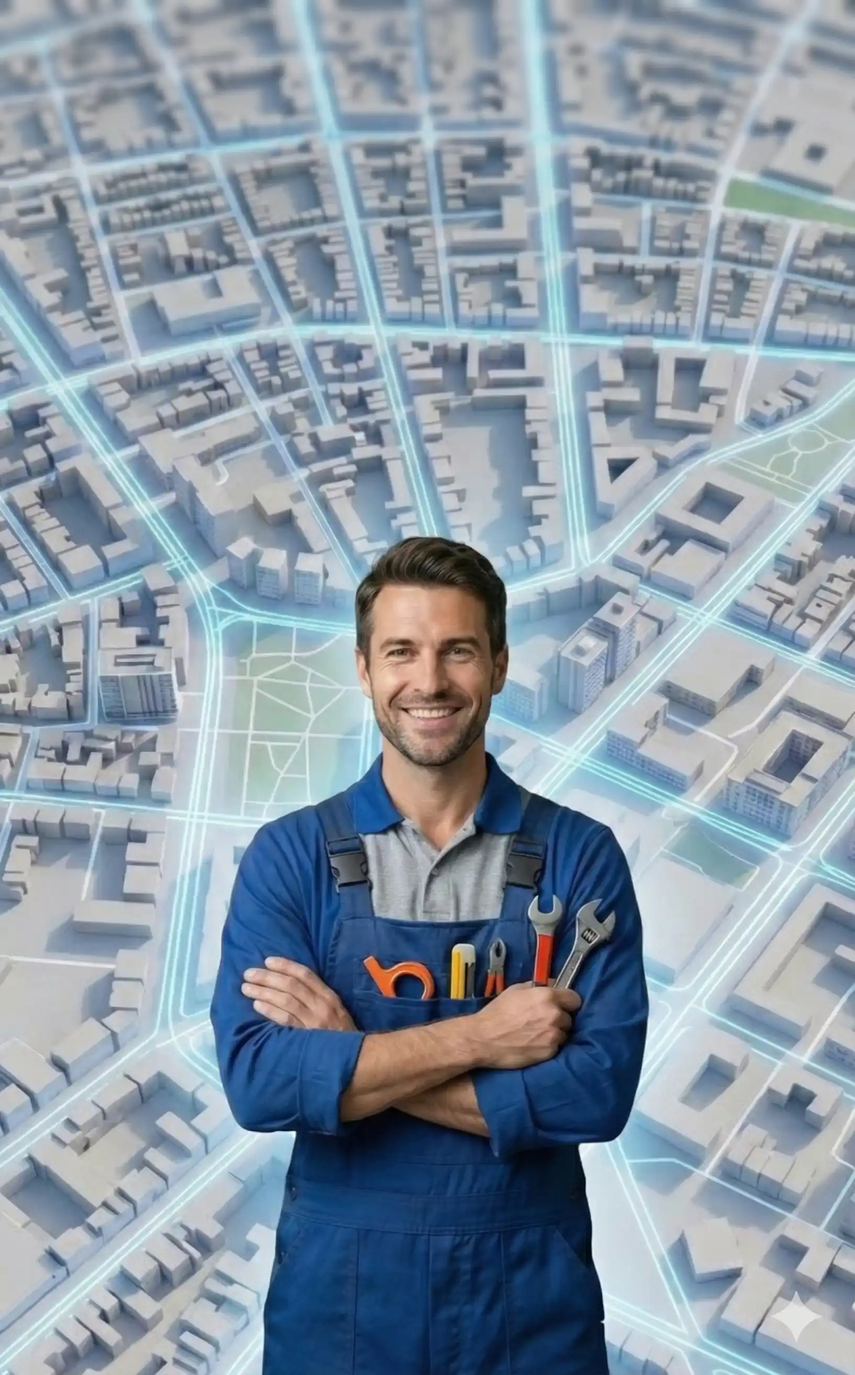
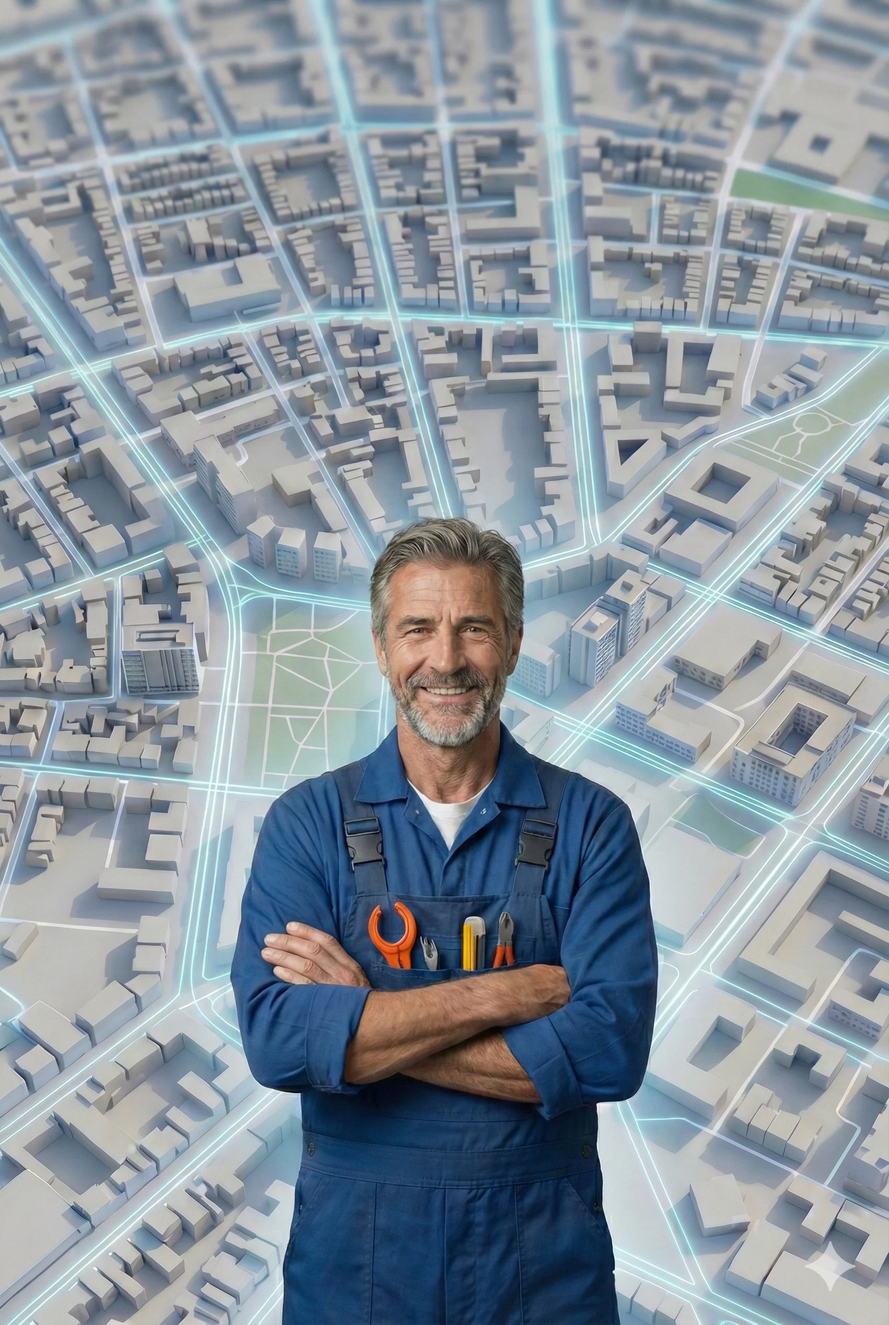
index page redesign fix

diff --git a/app/layouts/home.vue b/app/layouts/home.vue
@@ -1,6 +1,6 @@
 <template>
   <!-- Absolute + transparent, NOT sticky; must NOT reserve layout height -->
-  <PublicHeader class="absolute top-0 inset-x-0 z-10" variant="transparent" maxWidth="6xl" />
+  <PublicHeader class="absolute top-0 inset-x-0 z-50" variant="transparent" maxWidth="6xl" />
   <slot />
 </template>
 
